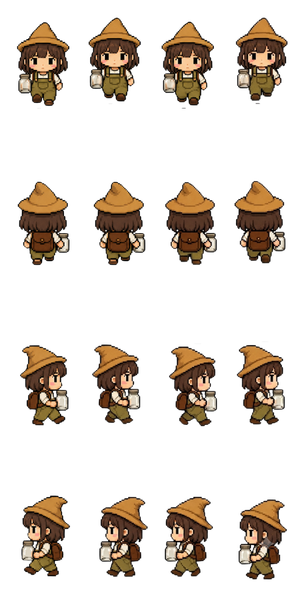
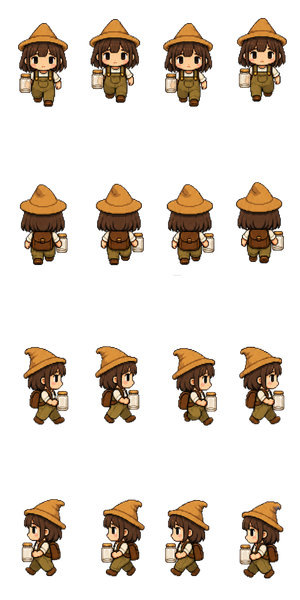
Changed asset

diff --git a/sketch.js b/sketch.js
@@ -876,7 +876,7 @@ function drawBadge() {
     );
 
     text(
-      "Now make your way to school.",
+      "Don't forget to make your way to school.",
       width / 2,
       height / 2 + 195
     );
@@ -966,6 +966,7 @@ function drawSocialBar() {
     50,
     height - 34,
   );
+  text("W A S D to move", 50, height - 14);
 
   textAlign(RIGHT, TOP);
   fill(255);